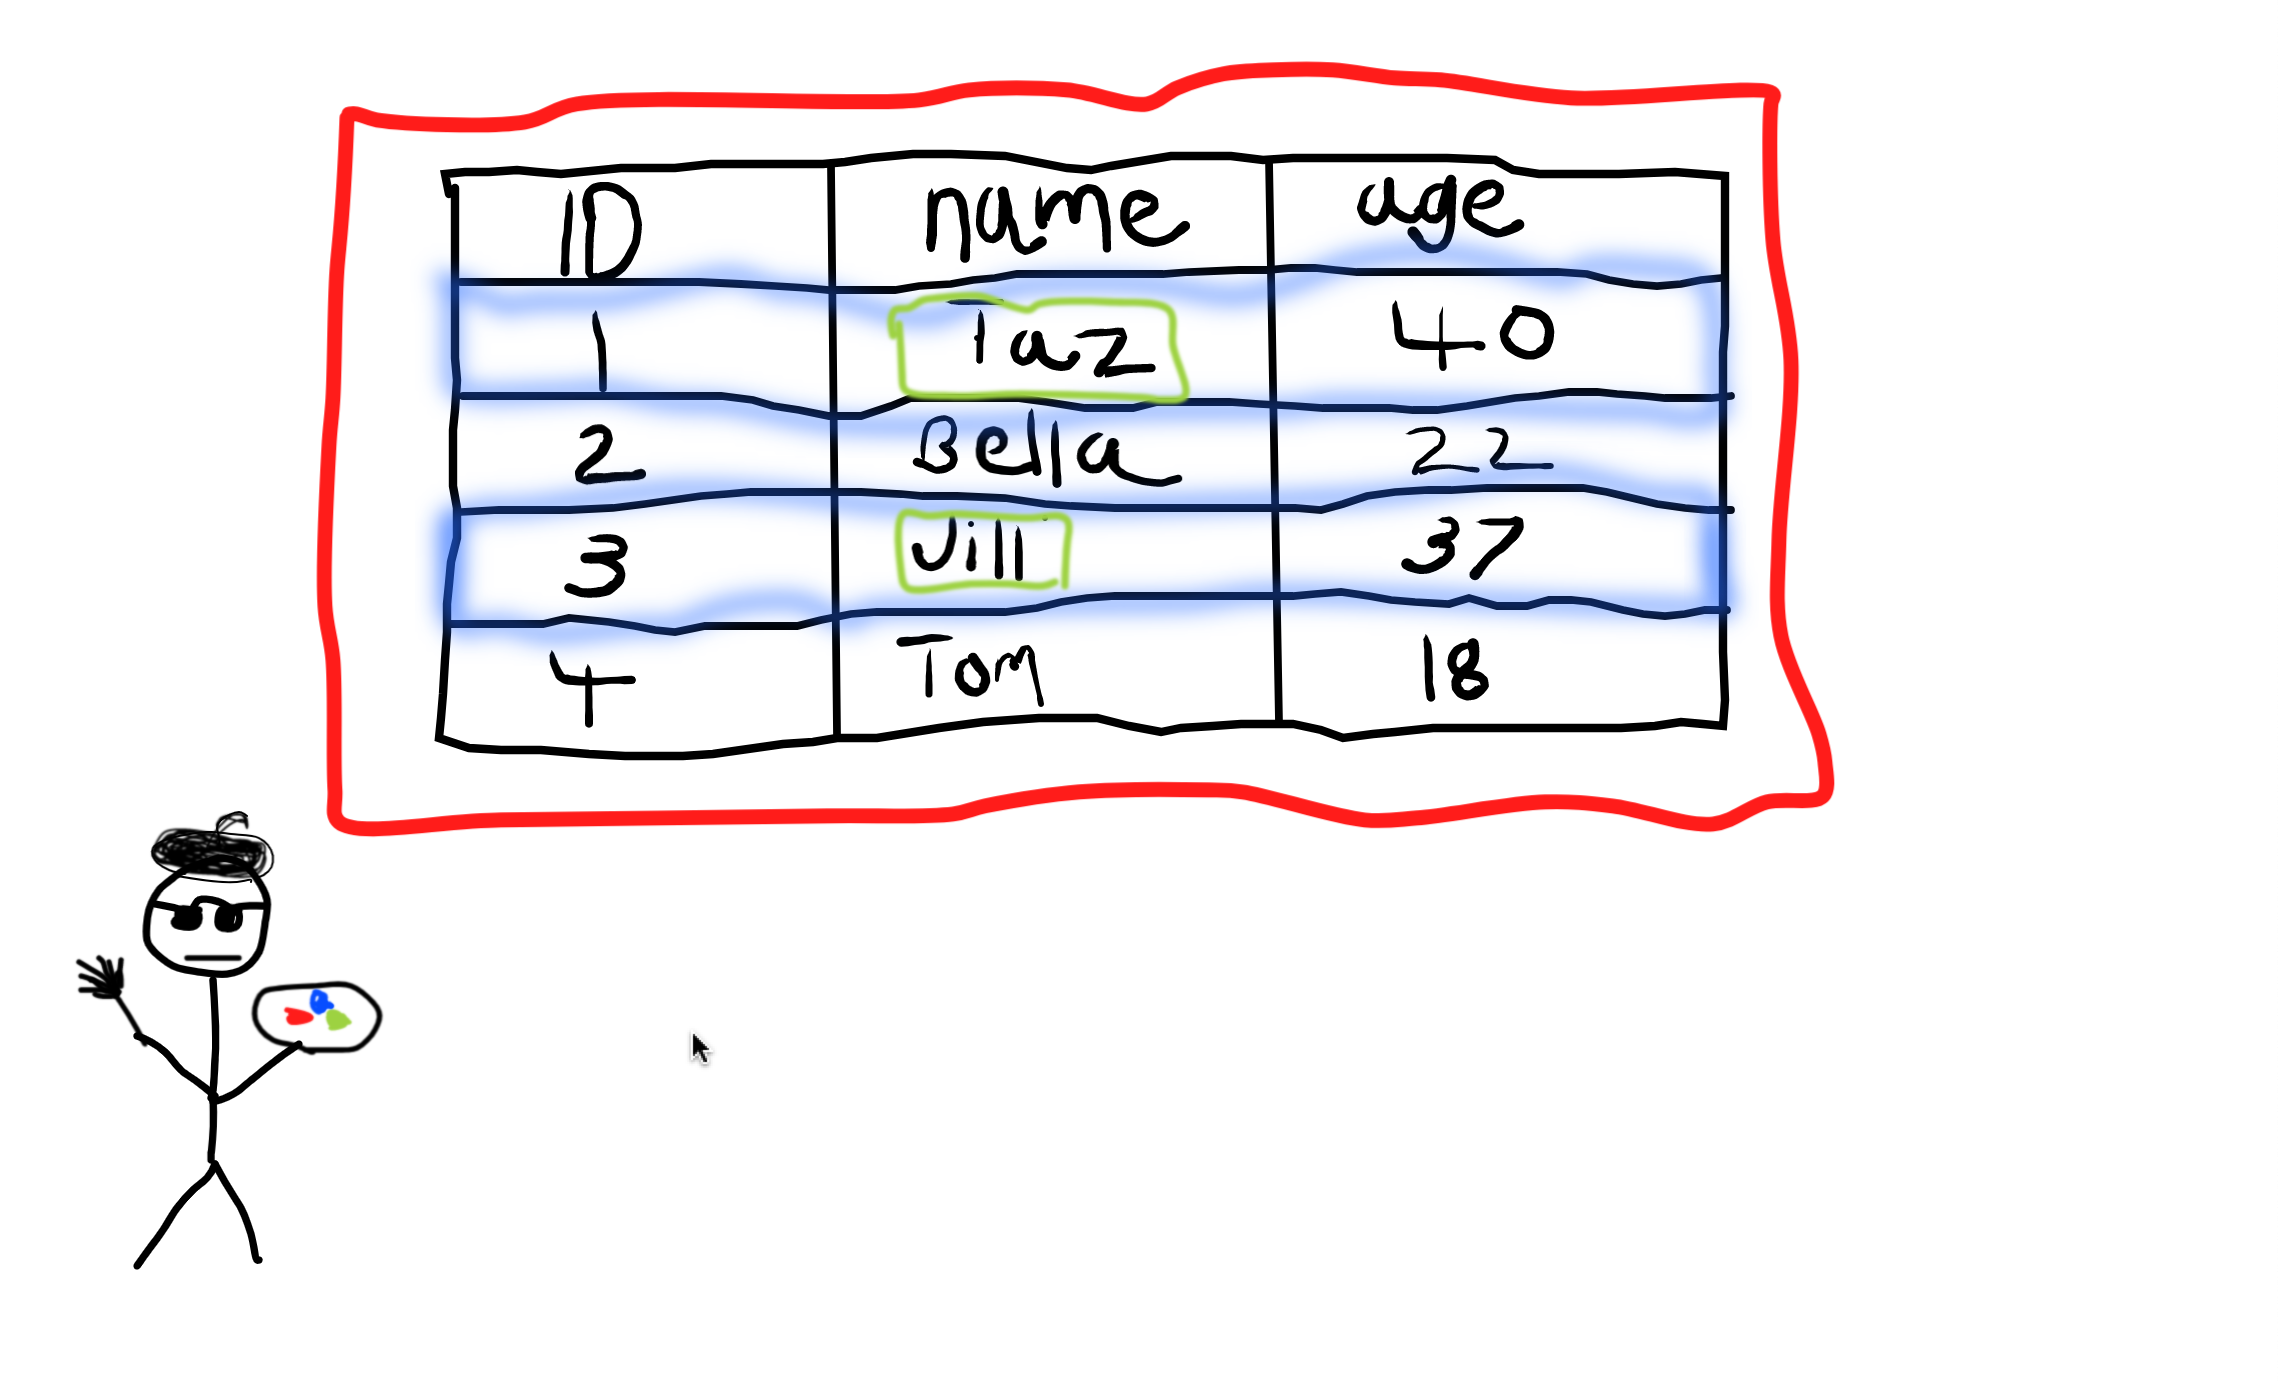
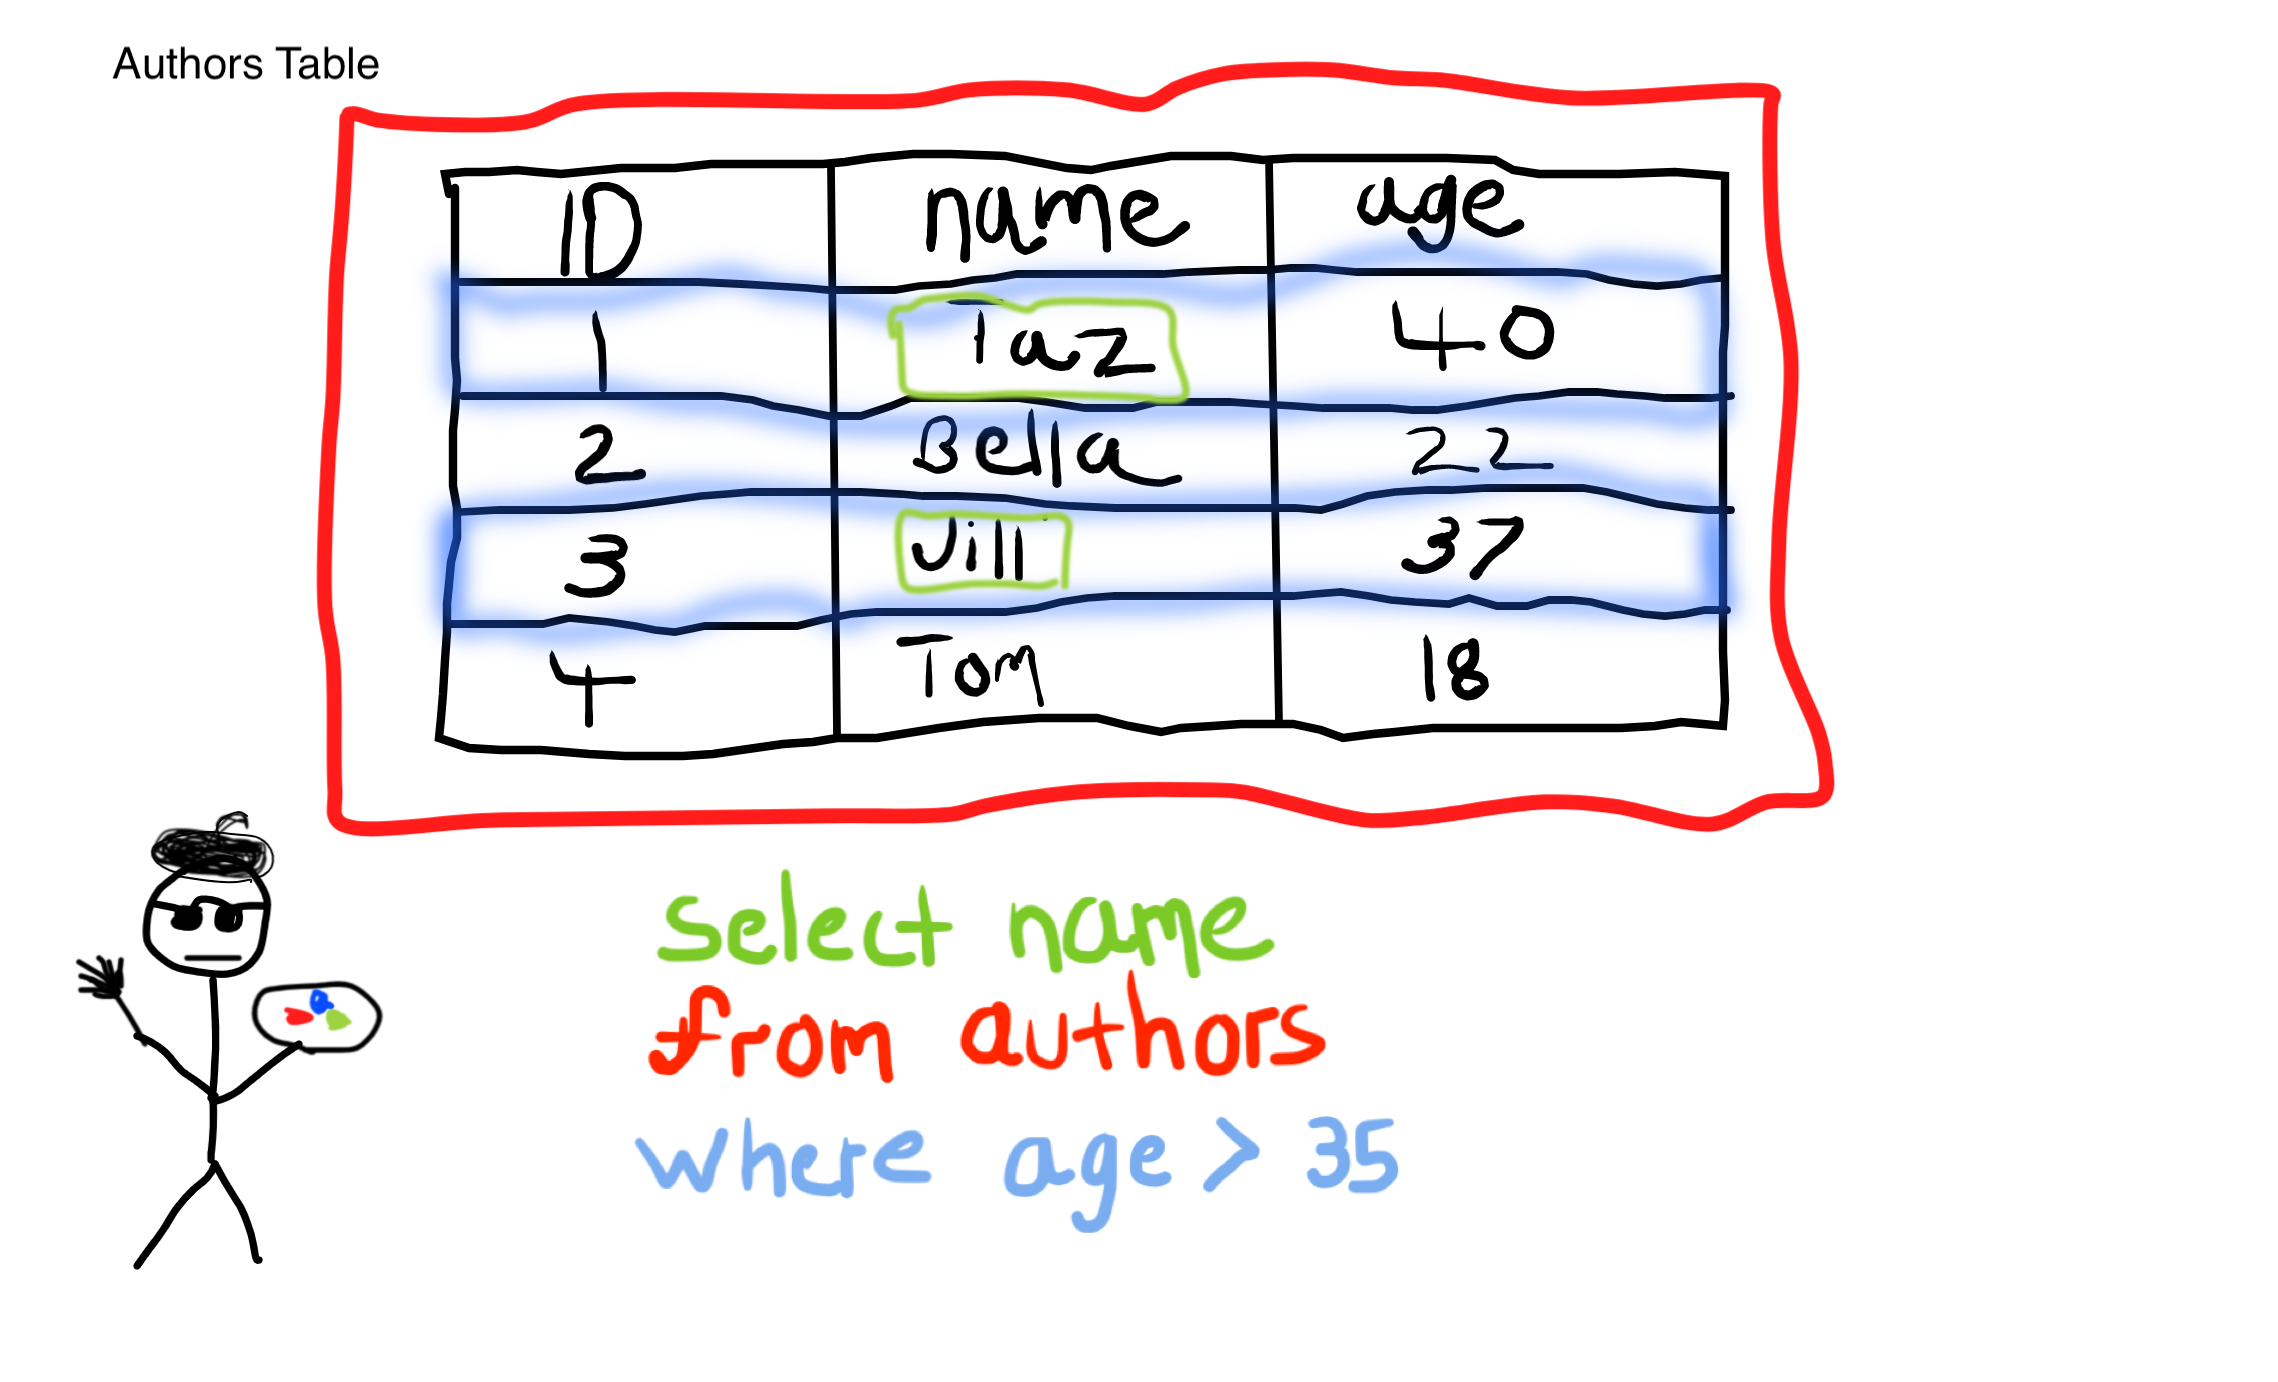
Update image

diff --git a/tasks/compress_images.rb b/tasks/compress_images.rb
@@ -13,8 +13,8 @@ img_dirs.each do |dir|
     ext_name = File.extname(img)
     base_name = File.basename(img, ".jpg")
     next if ext_name != ".jpg" || base_name.match?("-compress")
-  #
-  #   # Go down to make system call for compressed placeholder
+
+    # Go down to make system call for compressed placeholder
     Dir.chdir(dir)
     `touch #{base_name}-compress.jpg`
 
